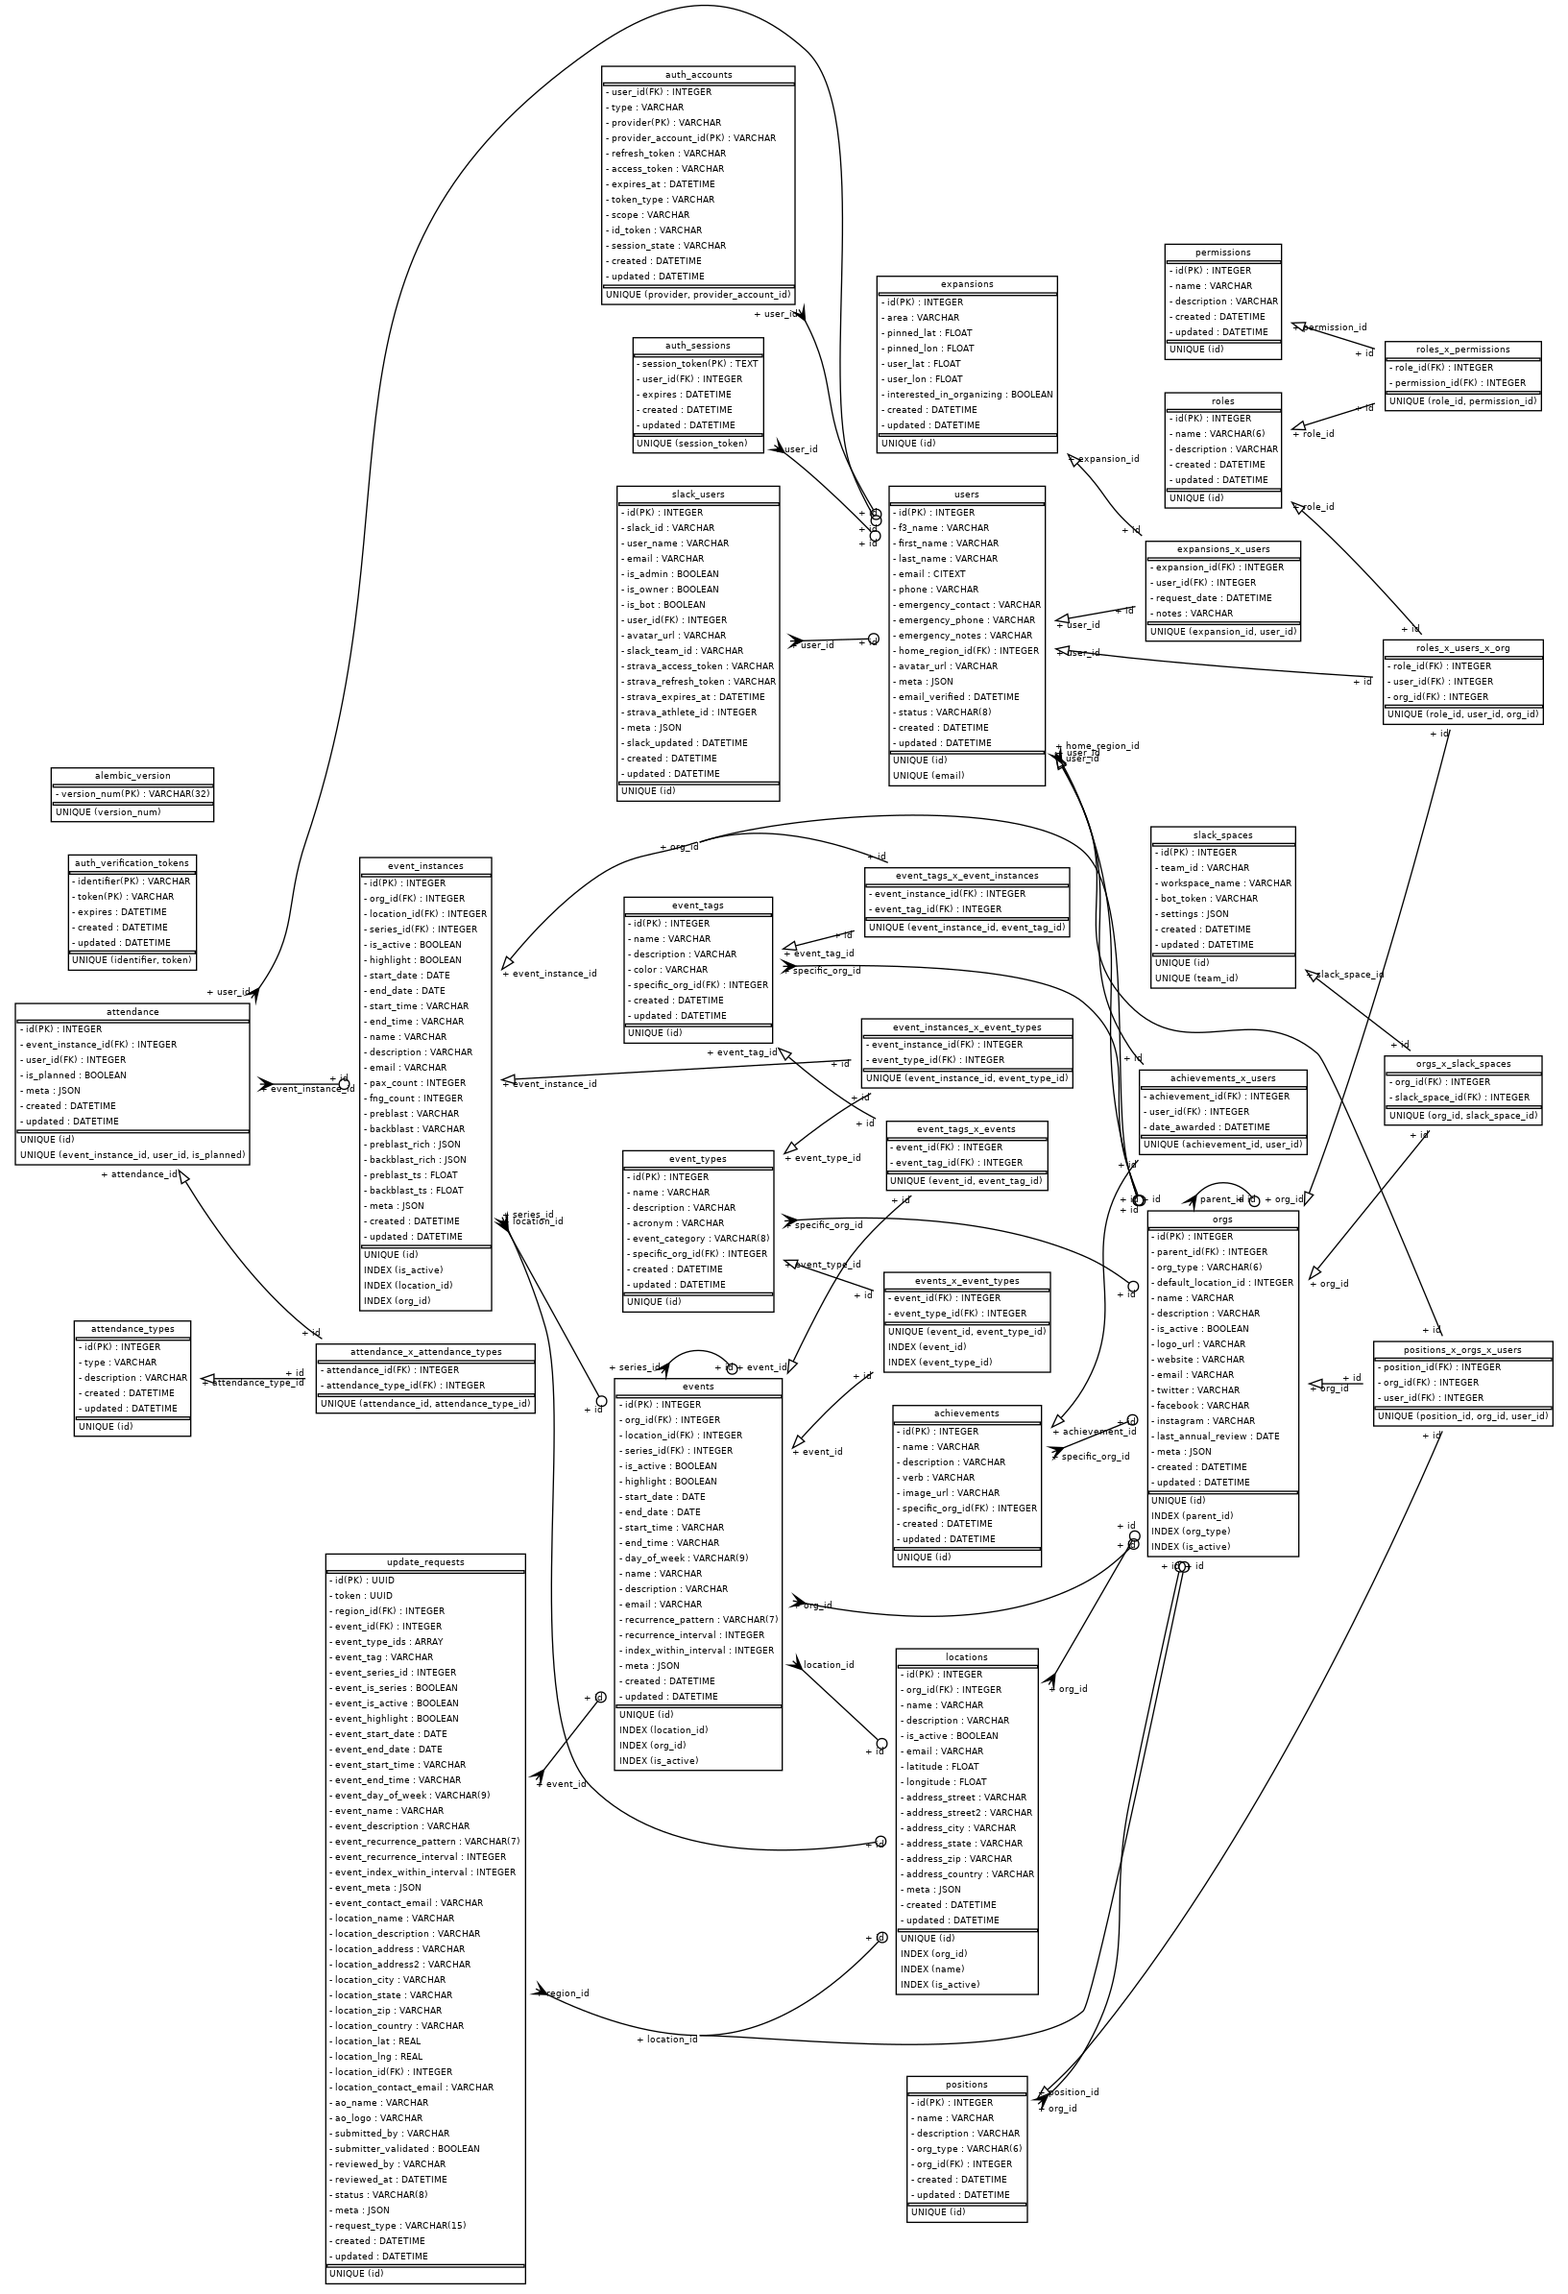
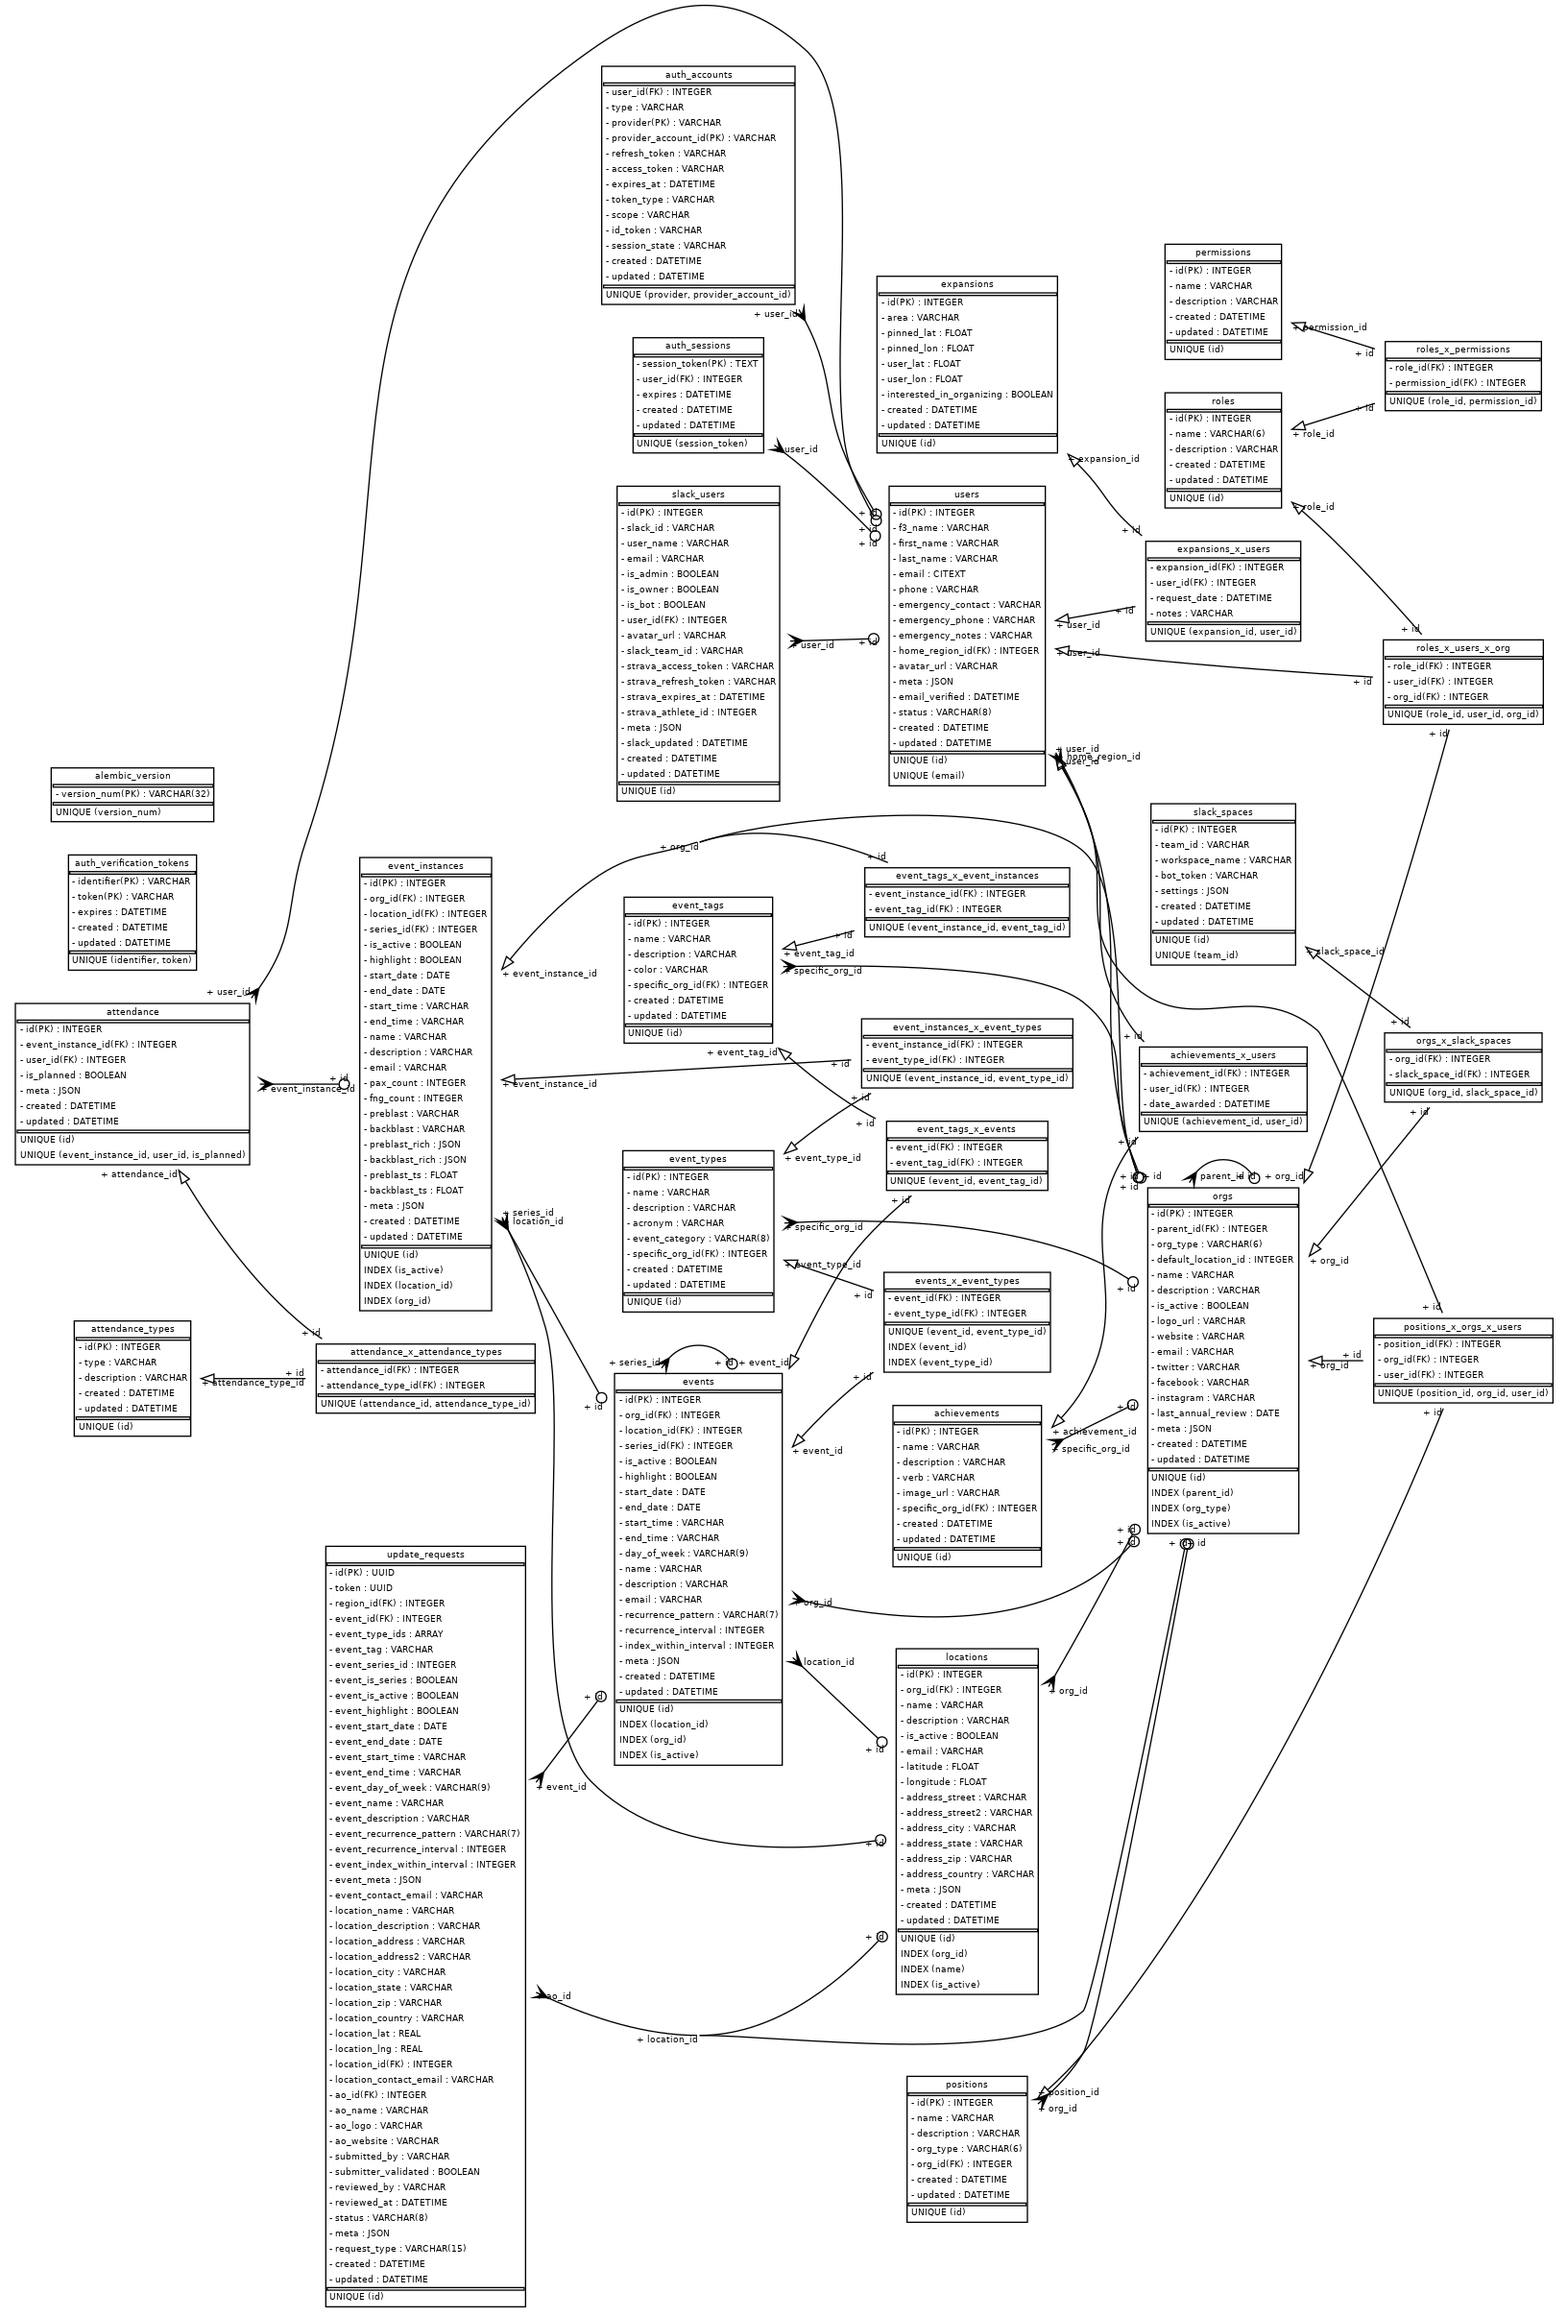
added ao_website to update_requests to match spuds

diff --git a/f3_data_models/models.py b/f3_data_models/models.py
@@ -1258,6 +1258,7 @@ class UpdateRequest(Base):
         ao_id (Optional[int]): The ID of the associated AO.
         ao_name (Optional[text]): The name of the AO.
         ao_logo (Optional[text]): The URL of the AO logo.
+        ao_website (Optional[text]): The website of the AO.
         submitted_by (str): The user who submitted the request.
         submitter_validated (Optional[bool]): Whether the submitter has validated the request. Default is False.
         reviewed_by (Optional[str]): The user who reviewed the request.
@@ -1310,6 +1311,7 @@ class UpdateRequest(Base):
     ao_id: Mapped[Optional[int]] = mapped_column(ForeignKey("orgs.id"))
     ao_name: Mapped[Optional[text]]
     ao_logo: Mapped[Optional[text]]
+    ao_website: Mapped[Optional[text]]
 
     submitted_by: Mapped[text]
     submitter_validated: Mapped[Optional[bool]] = mapped_column(Boolean, default=False)

diff --git a/alembic/versions/b2db07a0e3a7_added_ao_website_to_update_requests.py b/alembic/versions/b2db07a0e3a7_added_ao_website_to_update_requests.py
@@ -1,0 +1,31 @@
+"""added ao_website to update_requests
+
+Revision ID: b2db07a0e3a7
+Revises: 5b56bd54a1a1
+Create Date: 2025-05-05 14:27:40.943339
+
+"""
+
+from typing import Sequence, Union
+
+import sqlalchemy as sa
+
+from alembic import op
+
+# revision identifiers, used by Alembic.
+revision: str = "b2db07a0e3a7"
+down_revision: Union[str, None] = "5b56bd54a1a1"
+branch_labels: Union[str, Sequence[str], None] = None
+depends_on: Union[str, Sequence[str], None] = None
+
+
+def upgrade() -> None:
+    # ### commands auto generated by Alembic - please adjust! ###
+    op.add_column("update_requests", sa.Column("ao_website", sa.String(), nullable=True))
+    # ### end Alembic commands ###
+
+
+def downgrade() -> None:
+    # ### commands auto generated by Alembic - please adjust! ###
+    op.drop_column("update_requests", "ao_website")
+    # ### end Alembic commands ###
